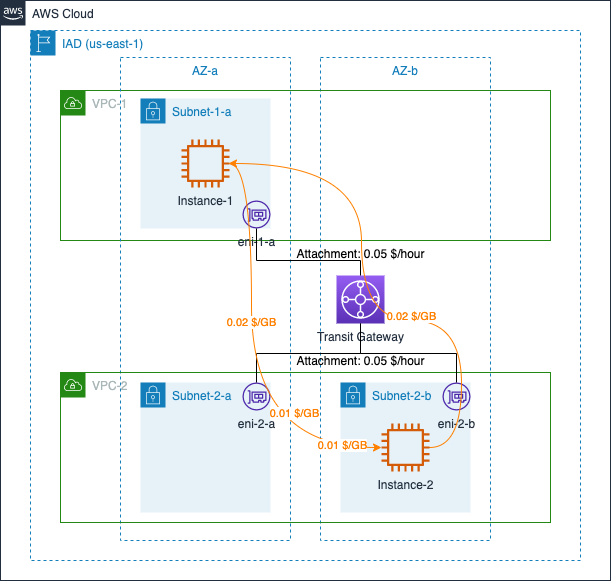
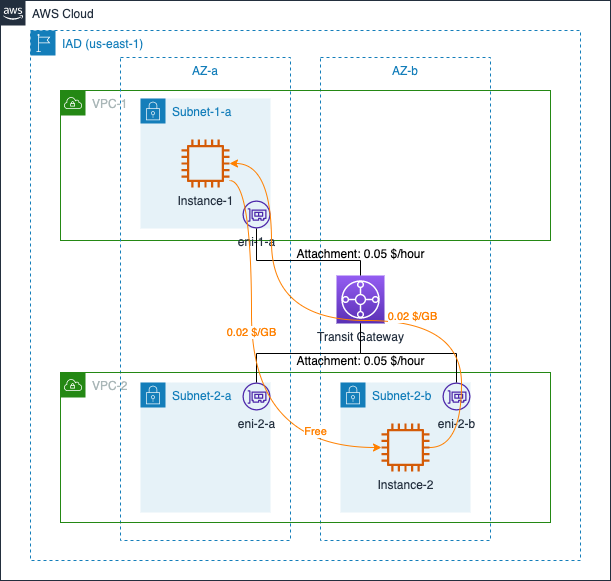
remove cross AZ cost

diff --git a/Networking/TGW/TGW-CN.md b/Networking/TGW/TGW-CN.md
@@ -34,9 +34,11 @@ TGW 自身的计费规则包含两个维度：
 
 [返回顶部](#summary)
 
-## 2. 跨 AZ 收费 
+## 2. 跨 AZ 收费
 
-在 [标准收费](#标准收费) 中，两个通信的 EC2 实例位于相同可用区内。如果两个 EC2 实例位于不同可用区，除了 TGW 费用外，根据 TGW 在创建关联时方式的不同，还可能会产生跨可用区流量费用。
+**更新：根据 AWS 在 2022 年 4 月 7 日的 [声明](https://aws.amazon.com/cn/about-aws/whats-new/2022/04/aws-data-transfer-price-reduction-privatelink-transit-gateway-client-vpn-services/)，自 2022 年 4 月 1 日起，使用 TGW 时将不再收取跨 AZ 流量传输费，流量处理费仍正常收取。**
+
+在 [标准收费](#标准收费) 中，两个通信的 EC2 实例位于相同可用区内。如果两个 EC2 实例位于不同可用区，除了 TGW 费用外，根据 TGW 在创建关联时方式的不同，还可能会产生跨可用区流量。但自 2022 年 4 月 1 日起，使用 TGW 时产生的跨可用区传输流量将不再收费。
 
 当使用 TGW 关联多个 VPC 时，如果 TGW 在所有 AZ 内均创建了 eni，TGW 会首先将流量路由到相同可用区内对应的 eni 中。如下图：
 
@@ -51,9 +53,9 @@ TGW 自身的计费规则包含两个维度：
 
 - TGW 连接的小时费：0.05 x 2（2 个 Attachment）= 0.1 $
 - TGW 流量处理费：0.02 x 10（Instanc-1 -> Instance-2）+ 0.02 x 5（Instance-2 -> Instance-1）= 0.3 $
-- 跨可用区流量处理费：0.01 x 10（eni-2-a OUT）+ 0.01 x 10（Instance-2 IN）+ 0.01 x 5（eni-1-b OUT）+ 0.01 x 5（Instance-1 IN）= 0.3 $
+- ~跨可用区流量处理费：0.01 x 10（eni-2-a OUT）+ 0.01 x 10（Instance-2 IN）+ 0.01 x 5（eni-1-b OUT）+ 0.01 x 5（Instance-1 IN）= 0.3 $~（**这部分费用自 2022 年 4 月 1 日起，不再收取**）
 
-合计：0.1 + 0.3 + 0.3 = 0.7 $
+合计：0.1 + 0.3 ~+ 0.3~ = 0.4 $
 
 然而，当创建 TGW 关联时，只选择了目标实例所在的可用区时，流量可以被直接路由到目标可用区。如下图：
 
@@ -68,9 +70,9 @@ TGW 自身的计费规则包含两个维度：
 
 - TGW 连接的小时费：0.05 x 2（2 个 Attachment）= 0.1 $
 - TGW 流量处理费：0.02 x 10（Instanc-1 -> Instance-2）+ 0.02 x 5（Instance-2 -> Instance-1）= 0.3 $
-- 跨可用区流量传输费：0.01 x 10（eni-2-a OUT）+ 0.01 x 10（Instance-2 IN）+ 0.01 x 5（eni-1-b OUT）+ 0.01 x 5（Instance-1 IN）= 0.3 $
+- ~跨可用区流量传输费：0.01 x 10（eni-2-a OUT）+ 0.01 x 10（Instance-2 IN）= 0.2 $~（**这部分费用自 2022 年 4 月 1 日起，不再收取**）
 
-合计：0.1 + 0.3 + 0.2 = 0.6 $
+合计：0.1 + 0.3 ~+ 0.2~ = 0.4 $
 
 **注意**：在 [Transit Gateway 文档](https://docs.aws.amazon.com/zh_cn/vpc/latest/tgw/tgw-vpc-attachments.html) 中，关于可用区与网络流量的说明仅有以下内容：
 
